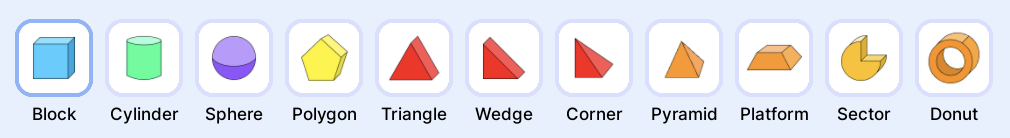
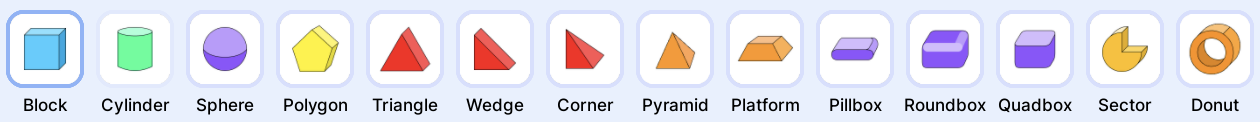
deploy: Trimatech/click-to-build-plugin@a837d3709c0df5953b02ec3258e5afd9118b50a1

diff --git a/docs/5-shape-builder.md b/docs/5-shape-builder.md
@@ -29,21 +29,21 @@ Draw primitives and custom geometry directly in the viewport with live previews,
 
 ### Shape - Block
 
-![Shape Block Settings](/img/shapes/block-settings.png)
+![Shape Block Settings](/img/shapes/draw-modes-rect.png)
 
 #### Draw Modes
 
-##### 4 - points (Side-Side-Height)
+##### Width → Depth → Height
 
 ![Shape Block](/img/shapes/shape-block.gif)
 
-##### 3 - points (Center to Corner)
+##### Center → Corner
 
 Good when working with Grid, especially when creating many blocks and minimizing clicks.
 
-##### 3 - points (Square Center to Side)
+##### Square: Center → Side
 
-Constrained square variant of the 3‑point mode. Set the center, then a side direction; width and depth are locked to be equal (square footprint). Great for fast, perfectly square floors/walls while staying aligned to the work plane and grid.
+Constrained square variant of the center-based mode. Click the center, then a side direction; width and depth are locked to be equal (square footprint). Great for fast, perfectly square floors/walls while staying aligned to the work plane and grid.
 
 ![Shape Builder Square](/img/shapes/shape-builder-square.gif)
 
@@ -241,6 +241,16 @@ If you need a wedge on its side.
 
 Build a pyramid made of four CornerWedge parts that meet at a shared apex.
 
+![Shape Block Settings](/img/shapes/draw-modes-rect.png)
+
+![Shape Pyramid](/img/shapes/shape-pyramid.gif)
+
+#### Draw Modes
+
+-   Width → Depth → Height
+-   Center → Corner
+-   Square: Center → Side
+
 ![Shape Pyramid](/img/shapes/shape-pyramid.gif)
 
 ### Shape - Platform
@@ -265,23 +275,55 @@ For last point you will defined slope, it can be inwards or outwards. So you can
 
 Create a rounded capsule-like block.
 
-![Shape Pill Settings](/img/shapes/pill-settings.png)
+![Shape Pill Settings](/img/shapes/draw-modes-rect.png)
 
 #### Draw Modes
 
-##### 4 - points (Side-Side-Height)
-
-Place two points for width, one for depth, then height.
-
-##### 3 - points (Center to Corner)
-
-Fast placement from center; define the footprint by dragging to a corner, then set height.
-
-##### 3 - points (Square Center to Side)
-
-Constrained square footprint from center to side direction; width and depth are locked to be equal for perfectly square capsules.
+-   Width → Depth → Height
+-   Center → Corner
+-   Square: Center → Side
 
 ![Shape Pill](/img/shapes/shape-pill.gif)
+
+### Shape - Roundbox
+
+Create a fully rounded rectangular block (rounded edges and corners). Great for soft, polished shapes and filleted blocks.
+
+![Shape Pill Settings](/img/shapes/draw-modes-rounded.png)
+
+#### Draw Modes
+
+-   Width → Depth → Height
+-   Center → Corner
+-   Square: Center → Side
+
+![Shape Pill](/img/shapes/shape-roundbox.gif)
+
+#### Radius Modes
+
+-   Define Radius Last: after setting width/depth/height, place one extra point on the top face to set the inner flat size; the radius is derived from that, letting you visually dial in the corner roundness.
+-   Predefined Radius: type a numeric radius that is used directly (default 0.5). Radius is clamped so it never exceeds half of width/depth/height.
+
+Works with Punch mode to cut rounded openings.
+
+### Shape - Quadbox
+
+A performance-friendly rounded rectangle variant. Produces straight top/bottom faces with rounded vertical corners (no corner spheres or top/bottom edge cylinders), ideal when you want rounded sides at lower part counts.
+
+![Shape Pill Settings](/img/shapes/draw-modes-rounded.png)
+
+![Shape Pill](/img/shapes/shape-quadbox.gif)
+
+#### Draw Modes
+
+-   Width → Depth → Height
+-   Center → Corner
+-   Square: Center → Side
+
+#### Radius Modes
+
+-   Define Radius Last: after setting width/depth/height, place one extra point on the top face to set the inner flat size; the radius is derived from that, letting you visually dial in the corner roundness.
+-   Predefined Radius: type a numeric radius that is used directly (default 0.5). Radius is clamped so it never exceeds half of width/depth/height.
 
 ### Shape - Sector
 

diff --git a/docs/11-changelog.md b/docs/11-changelog.md
@@ -8,12 +8,19 @@ This page lists notable changes across releases. Use it to track new features, i
 ## Unreleased 🧪
 
 -   EditableMesh as a result from Shape Builder and Puncher
--   Rounded Block
+
+## 1.4.0
+
+-   Shape Builder: Added Roundbox (fully rounded rectangle) with two radius modes:
+    -   Define Radius Last (extra point on top face)
+    -   Predefined Radius (numeric input)
+-   Shape Builder: Added Quadbox (lightweight rounded rectangle) sharing the same draw and radius modes as Roundbox.
+-   Draw Modes: Added 3‑point modes (Center → Corner, Square: Center → Side) to Block, Pyramid, Platform, PillBox, Roundbox, Quadbox.
 
 ## 1.3.0
 
 -   Grid Snap: while holding Shift to disable snapping, hold Shift+Option to apply precision rounding to 0.1 on movements/placements.
--   Block: new draw mode — 3 Points (Square Center to Side). Constrains width and depth to be equal when using the 3‑point rectangle flow.
+-   Block: new draw mode — Square: Center → Side. Constrains width and depth to be equal when using the 3‑point rectangle flow.
 -   Added Pyramid shape.
 -   Added Pill shape.
 -   Added Platform shape.
